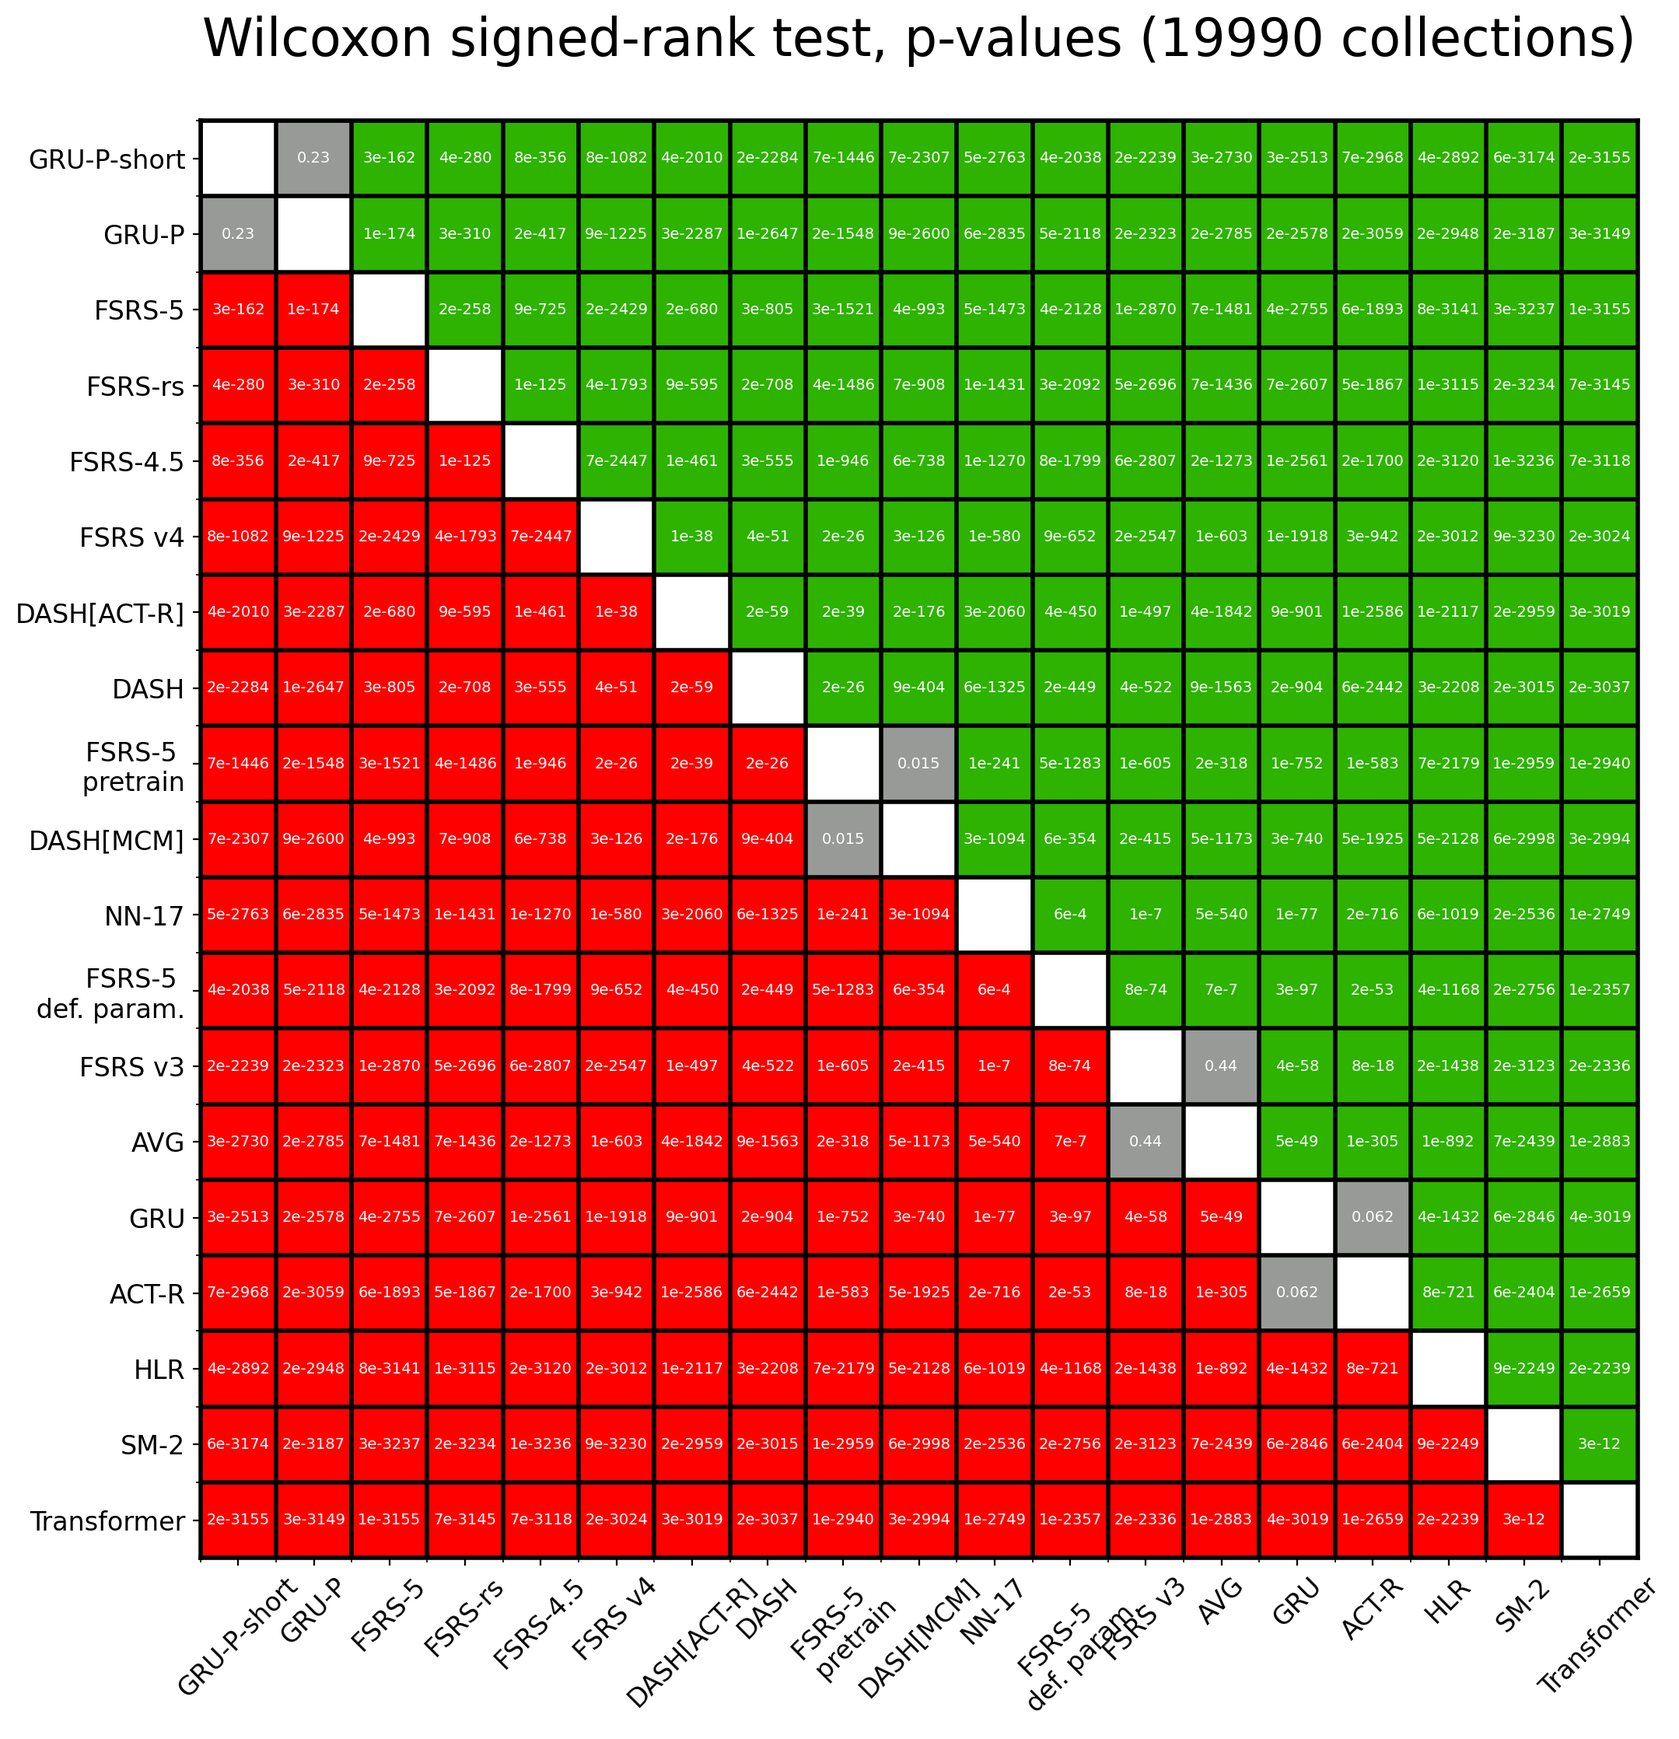
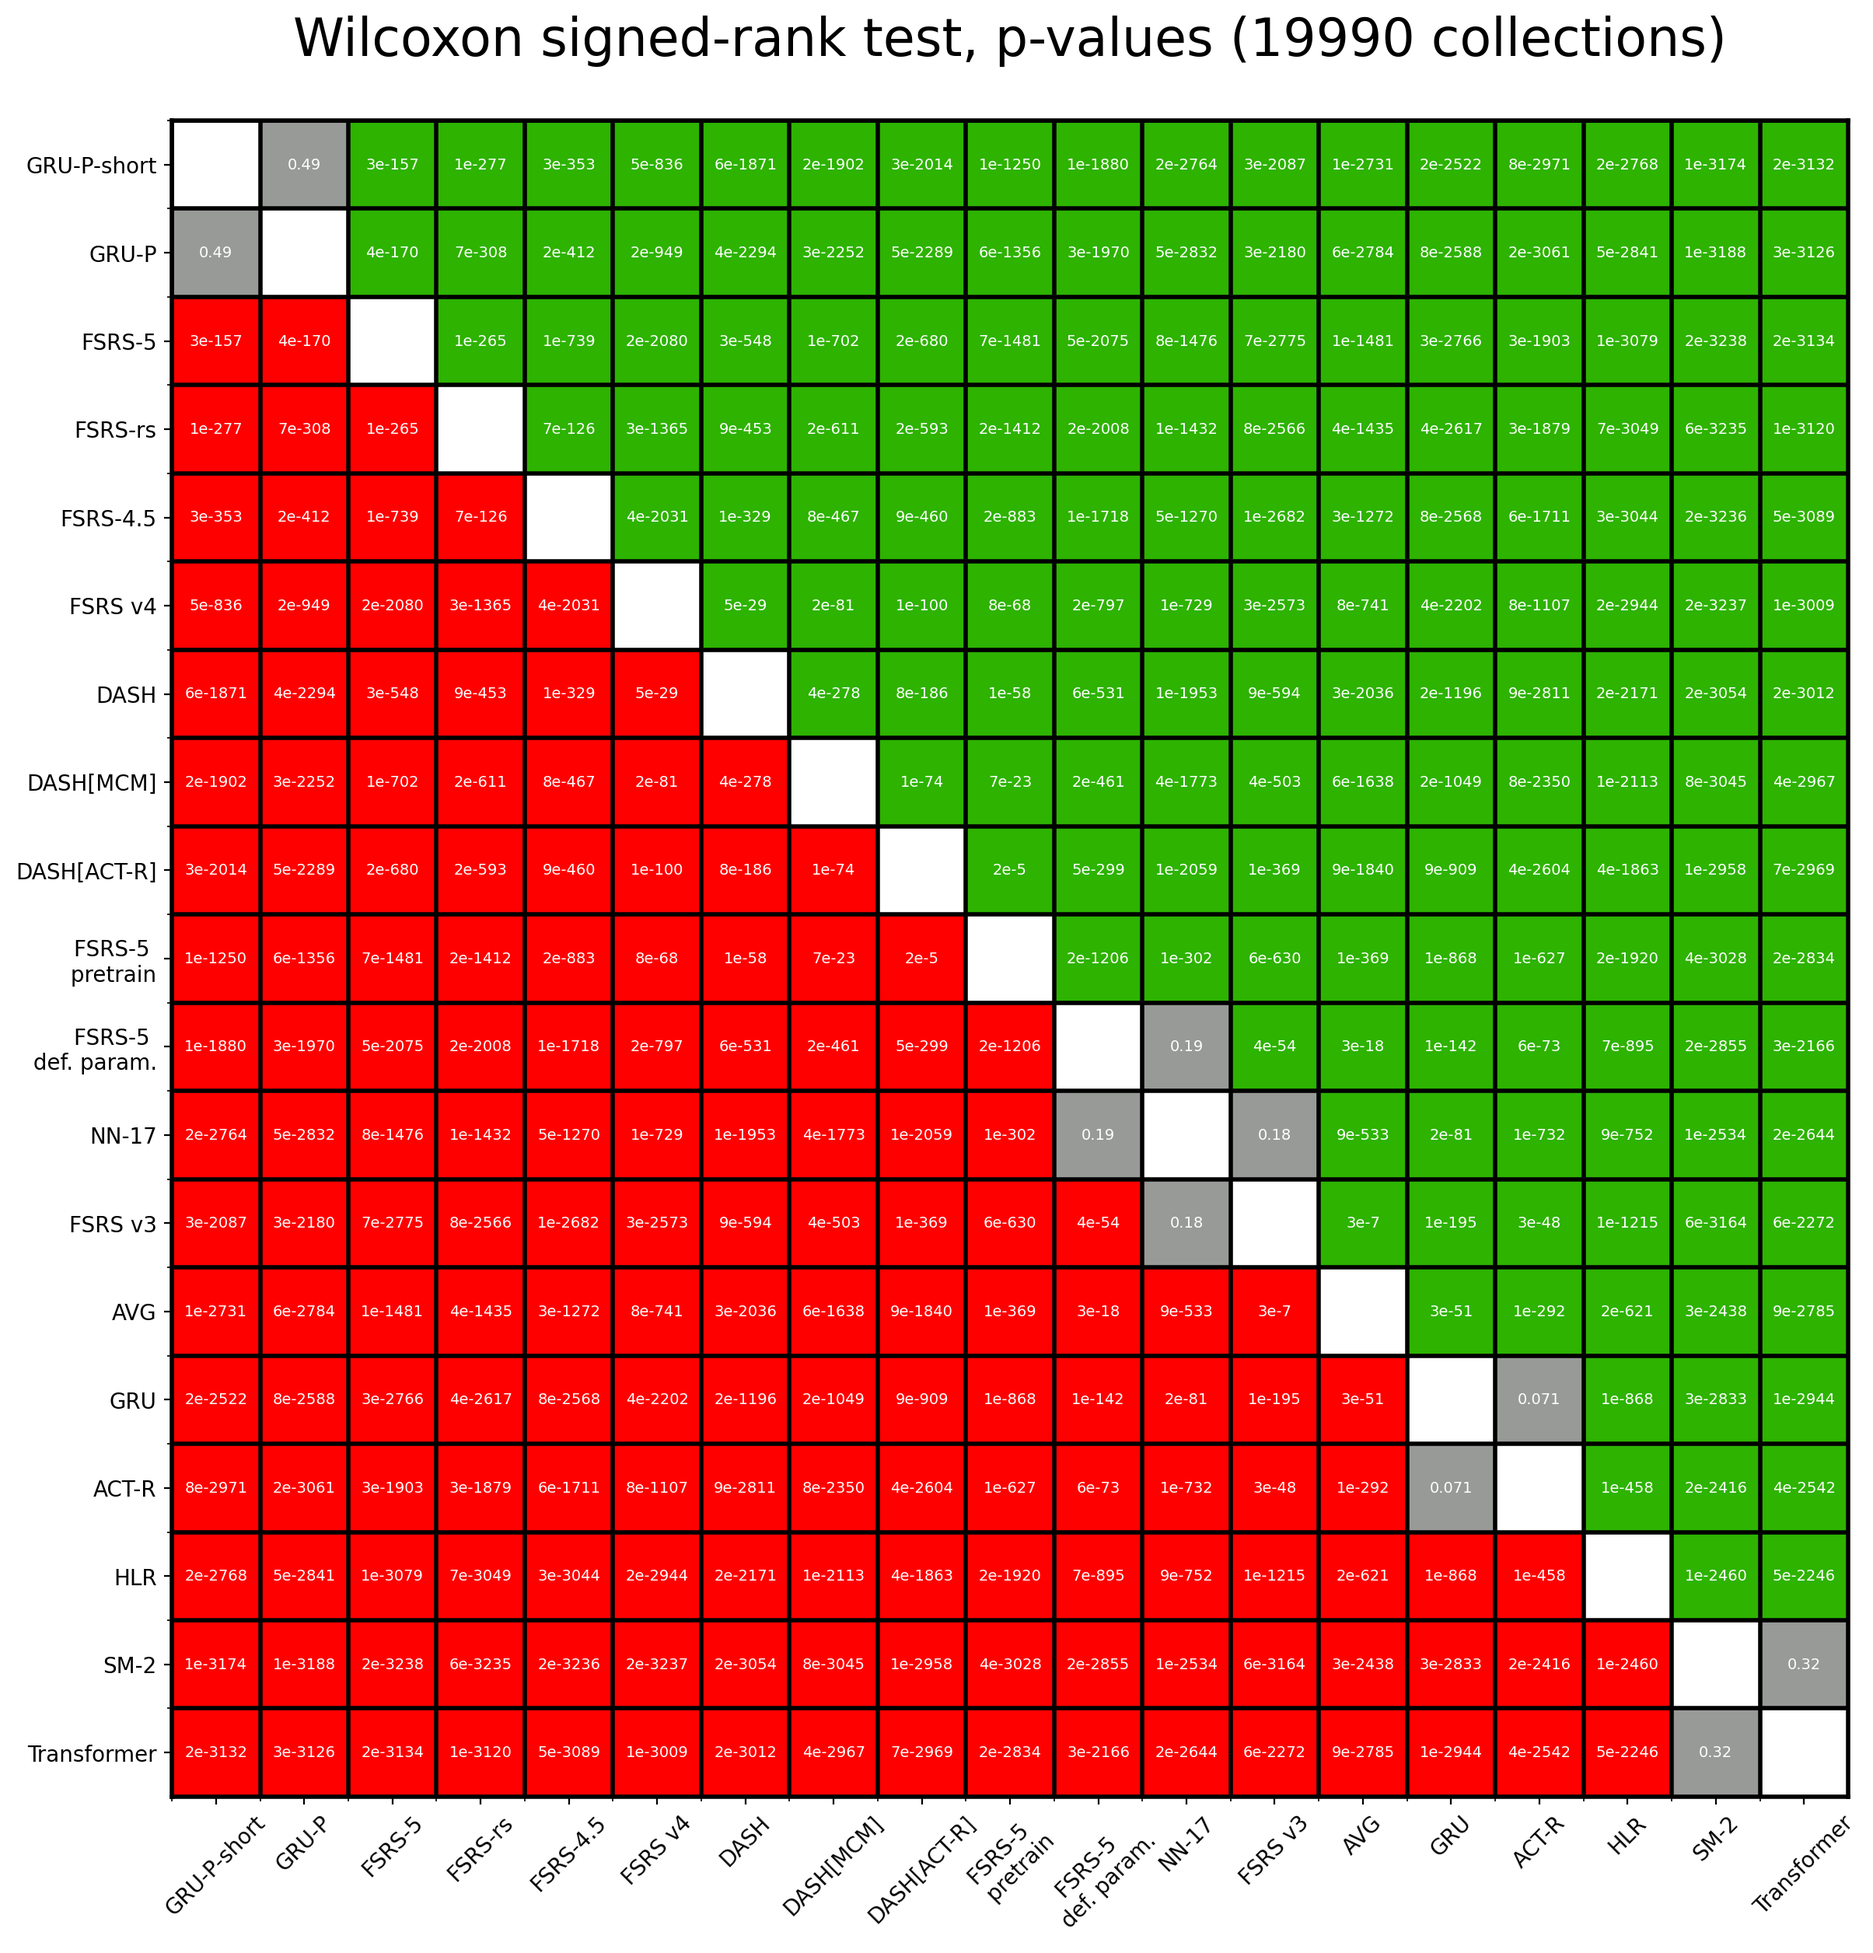
update significance table

diff --git a/significance_table.py b/significance_table.py
@@ -113,12 +113,12 @@ if __name__ == "__main__":
         "FSRS-rs",
         "FSRS-4.5",
         "FSRSv4",
-        "DASH[ACT-R]",
         "DASH",
-        "FSRS-5-pretrain",
         "DASH[MCM]",
-        "NN-17",
+        "DASH[ACT-R]",
+        "FSRS-5-pretrain",
         "FSRS-5-dry-run",
+        "NN-17",
         "FSRSv3",
         "AVG",
         "GRU",
@@ -218,7 +218,7 @@ if __name__ == "__main__":
     models[index_v3] = "FSRS v3"
     models[index_sm2] = "SM-2"
 
-    fig, ax = plt.subplots(figsize=(12, 12), dpi=200)
+    fig, ax = plt.subplots(figsize=(14, 14), dpi=200)
     ax.set_title(
         f"Wilcoxon signed-rank test, p-values ({n_collections} collections)",
         fontsize=24,
@@ -248,8 +248,8 @@ if __name__ == "__main__":
                     fontsize=7,
                 )
 
-    ax.set_xticks(np.arange(n), labels=models, fontsize=11, rotation=45)
-    ax.set_yticks(np.arange(n), labels=models, fontsize=11)
+    ax.set_xticks(np.arange(n), labels=models, fontsize=10, rotation=45)
+    ax.set_yticks(np.arange(n), labels=models, fontsize=10)
     ax.set_xticks(np.arange(n) - 0.5, minor=True)
     ax.set_yticks(np.arange(n) - 0.5, minor=True)
     plt.grid(True, alpha=1, color="black", linewidth=2, which="minor")
